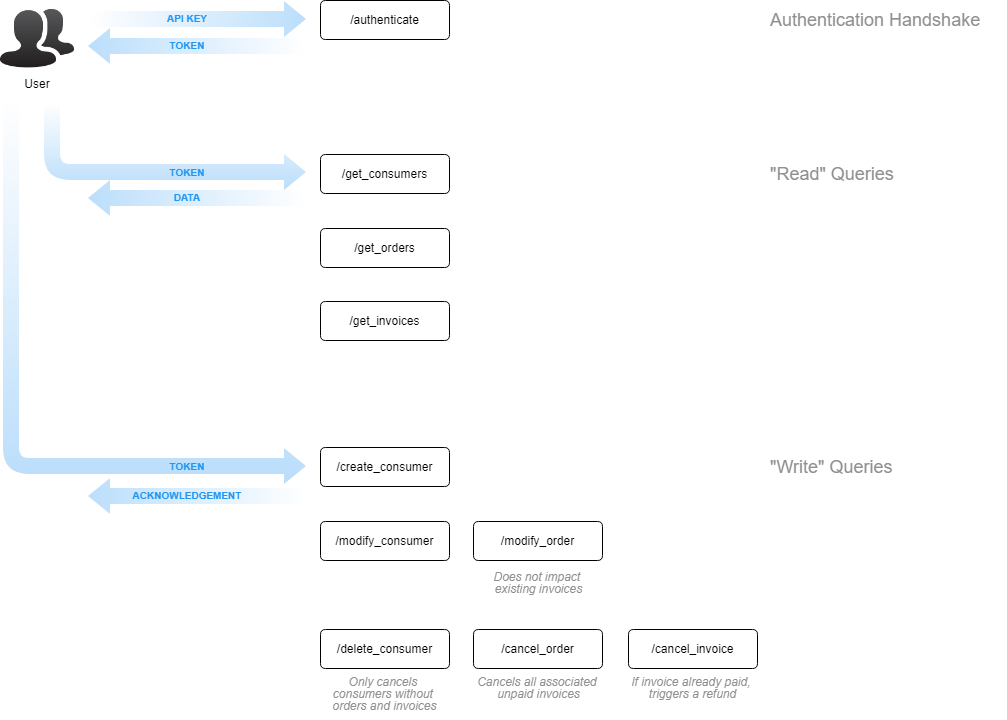
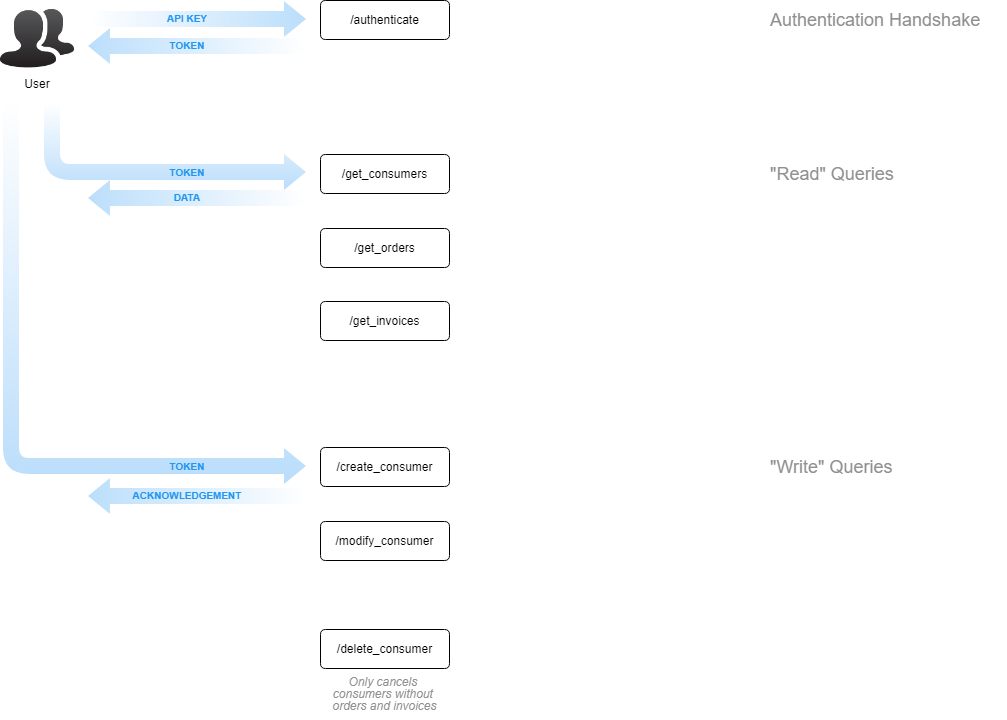
revising to 2.0

diff --git a/older_versions/v1-2/overview.md b/older_versions/v1-2/overview.md
@@ -12,32 +12,29 @@
 
 ### Consumers
 
-- [/get_consumers](get_consumers.md)
-- [/create_consumer](create_consumer.md)
-- [/modify_consumer](modify_consumer.md)
-- [/delete_consumer](delete_consumer.md)
+- [/get_consumers](consumers/get_consumers.md)
+- [/create_consumer](consumers/create_consumer.md)
+- [/modify_consumer](consumers/modify_consumer.md)
+- [/delete_consumer](consumers/delete_consumer.md)
 
 ### Orders
 
 Orders are a grouping of invoices.  Each orders has at least 1 invoice initially (a single amount to be collected from the consumer).  Future implementations of recurring billing will include multiple invoices per order.
 
-- [/get_orders](get_orders.md)
+- [/get_orders](orders/get_orders.md)
 
 ### Invoices
 
 Invoices represent the amount to be collected from the consumer, when it was received, and if there was any problems with processing the payment.
 
-- [/get_invoices](get_invoices.md)
+- [/get_invoices](invoices/get_invoices.md)
 
 ### Webhooks
 
 Webhooks allow you to subscribe to have status updates sent to a url when certain actions occur within SmartPay.
 
-The following topics are available to be subscribed to:
-> invoice/created<br />
-> invoice/paid<br />
-> invoice/cancelled<br />
-> order/created<br />
-> order/cancelled
-
-- [/get_invoices](get_invoices.md)
+- [/overview](webhooks/overview.md)
+- [/get_webhooks](webhooks/get_webhooks.md)
+- [/create_webhook](webhooks/create_webhook.md)
+- [/modify_webhook](webhooks/modify_webhook.md)
+- [/delete_webhook](webhooks/delete_webhook.md)
